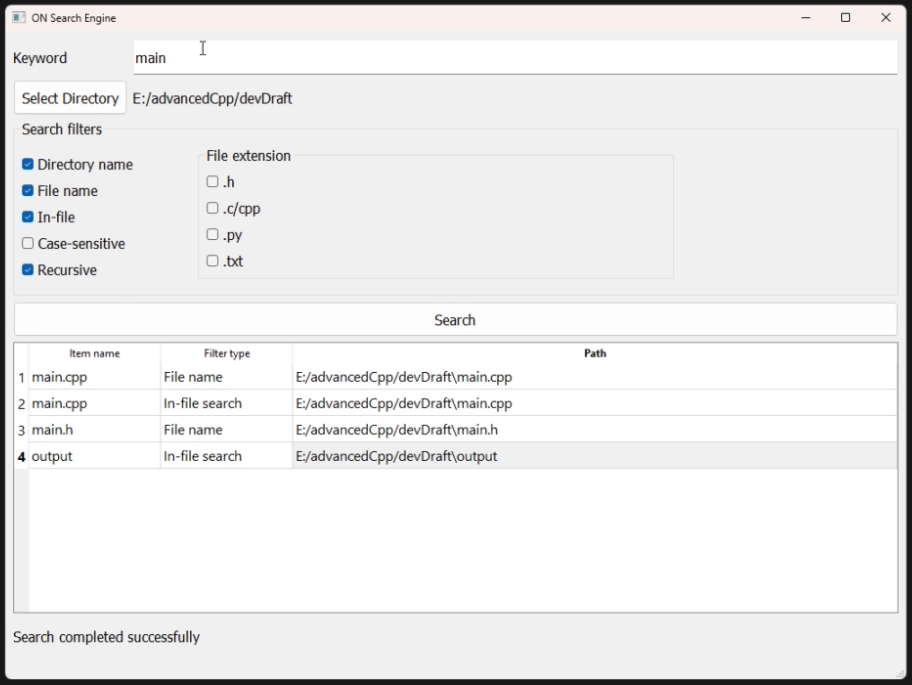
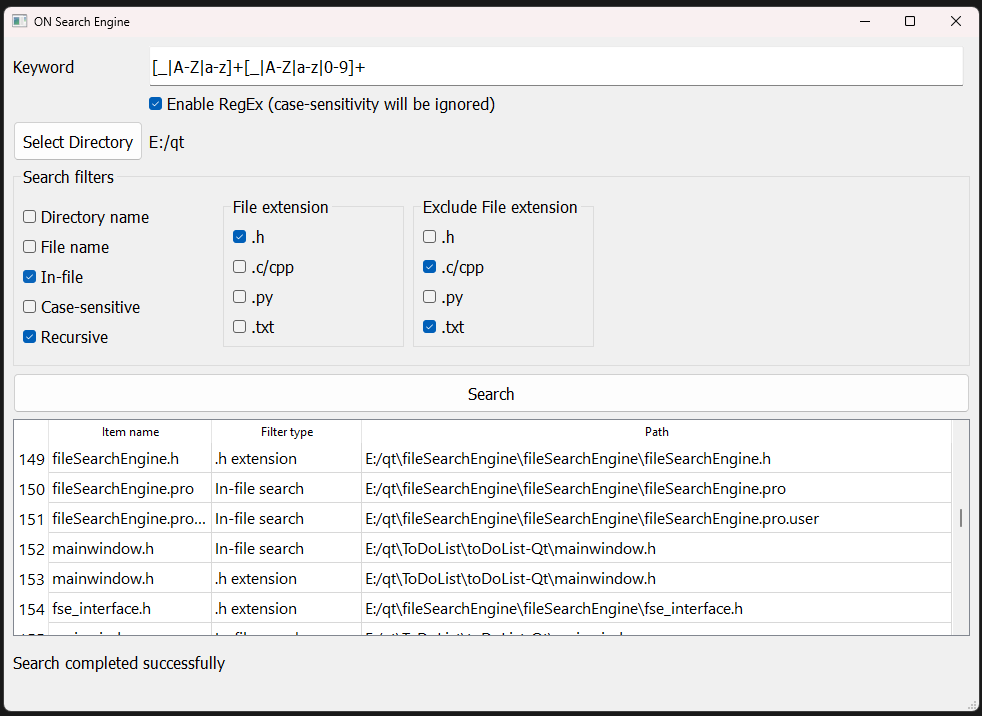
update README.md and screenshot.png

diff --git a/README.md b/README.md
@@ -12,6 +12,9 @@ You can include/exclude specific file-extensions in/from searching, supported fi
 - Python files (.py)
 - Text files (.txt)
 
+You can search using regular expressions (RegEx)
+
+
 ## Framework
 - Qt 5 with C++17
 
